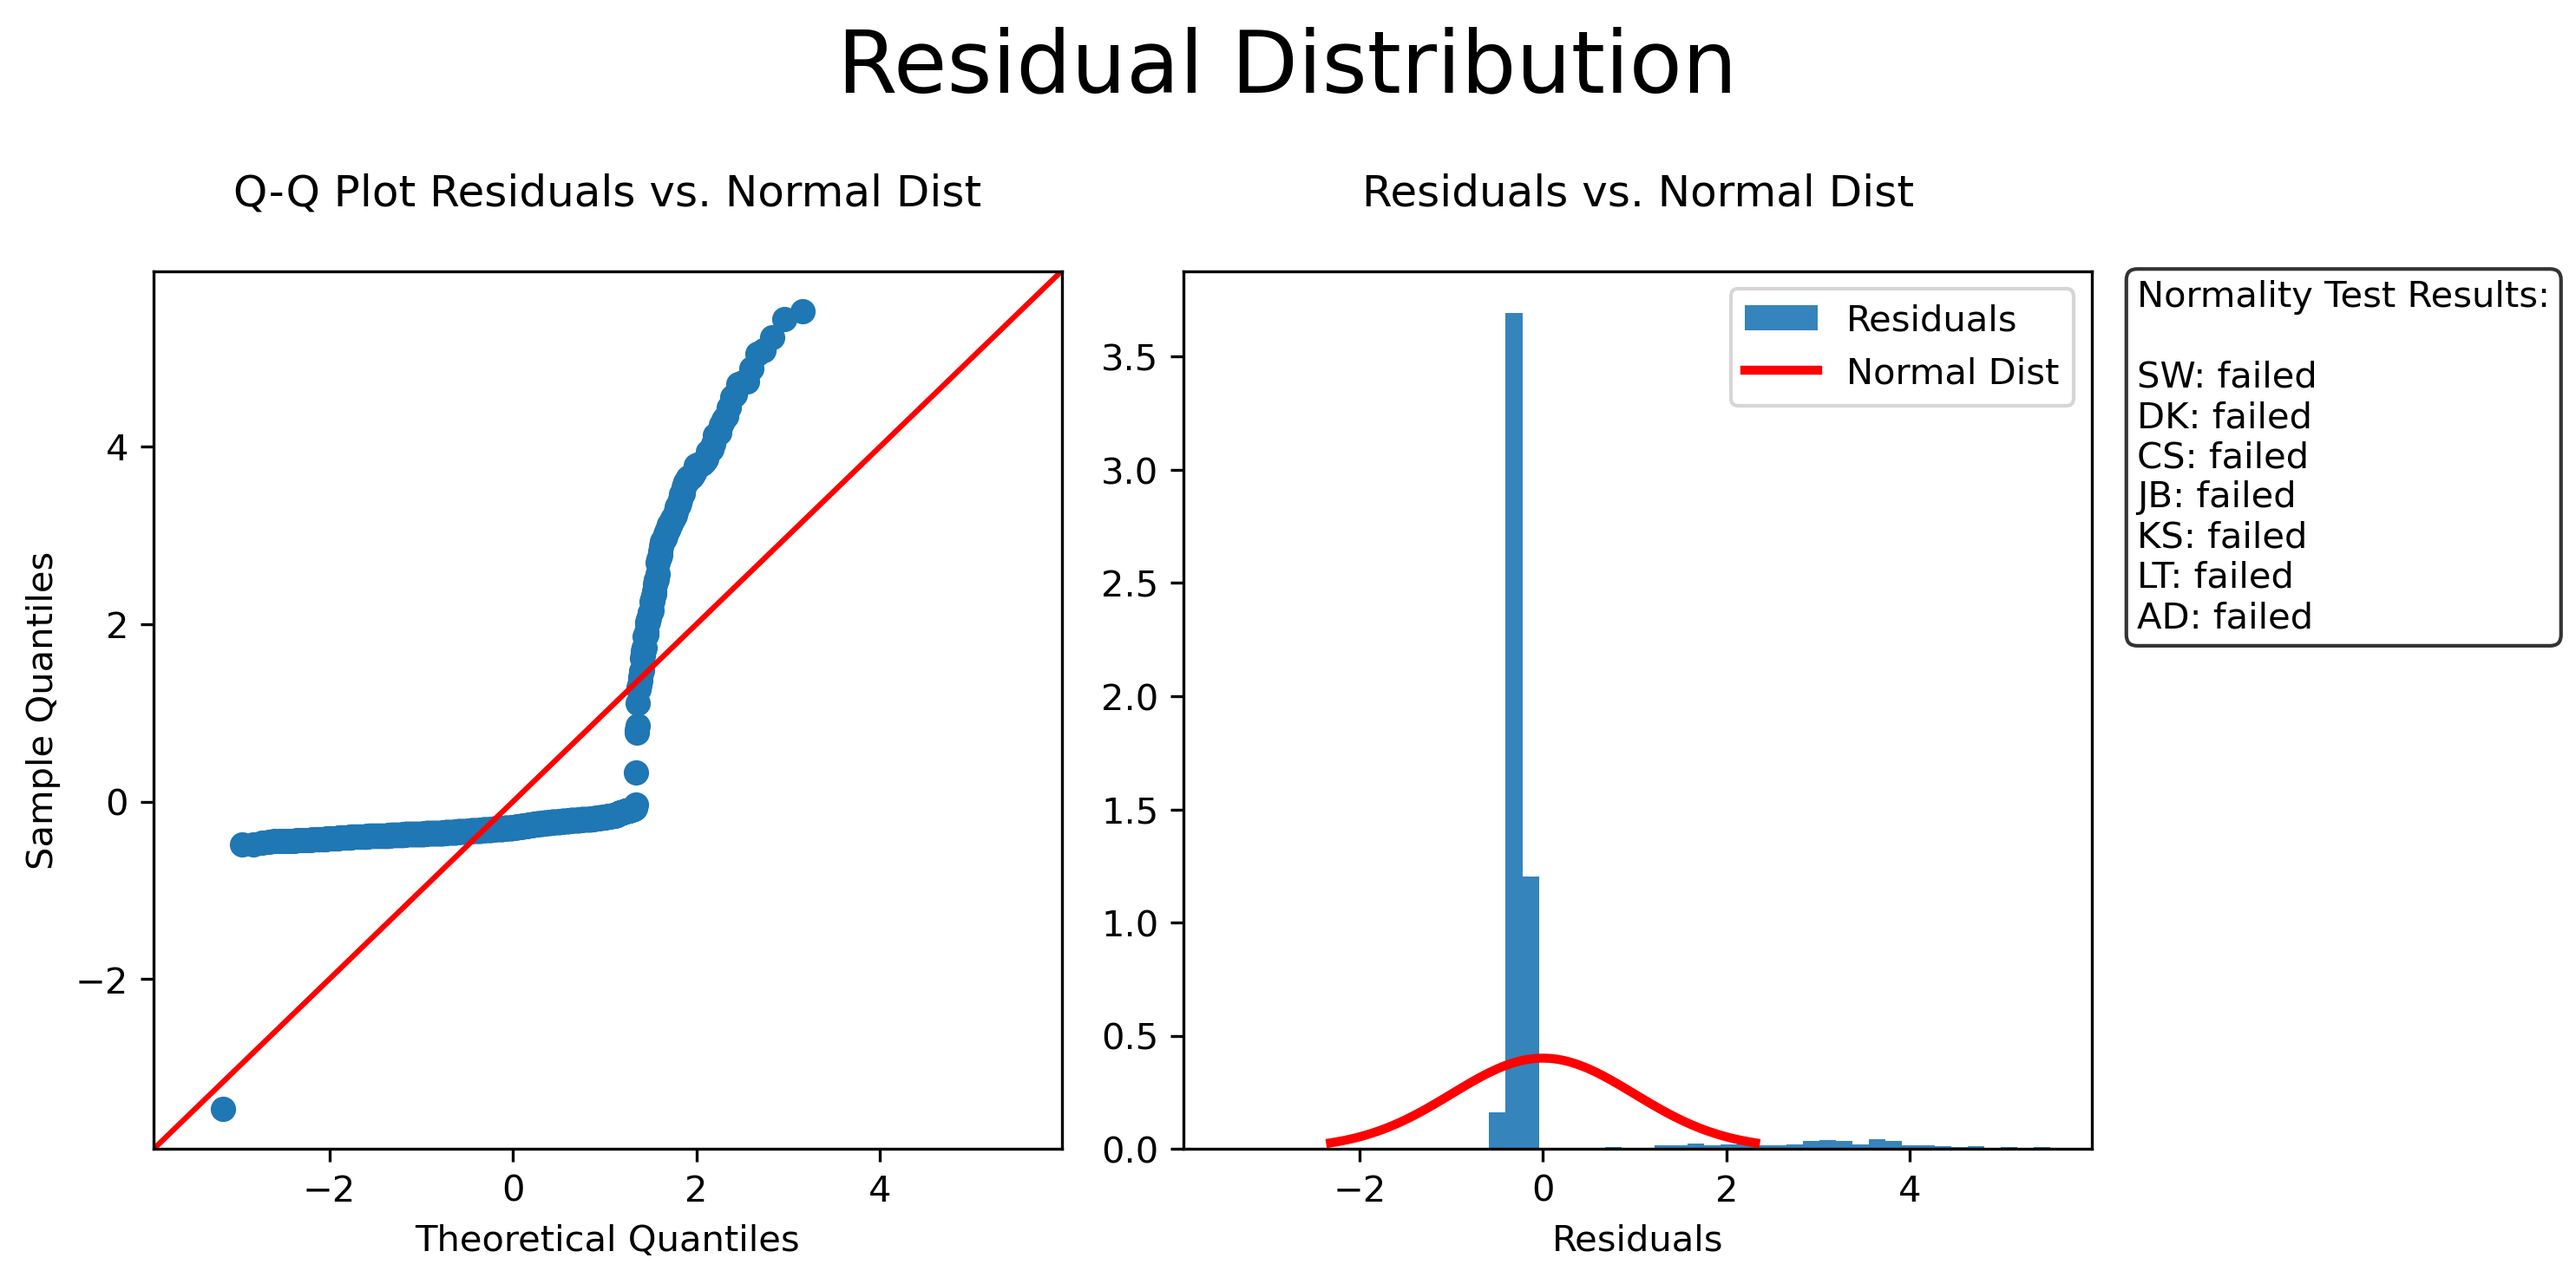
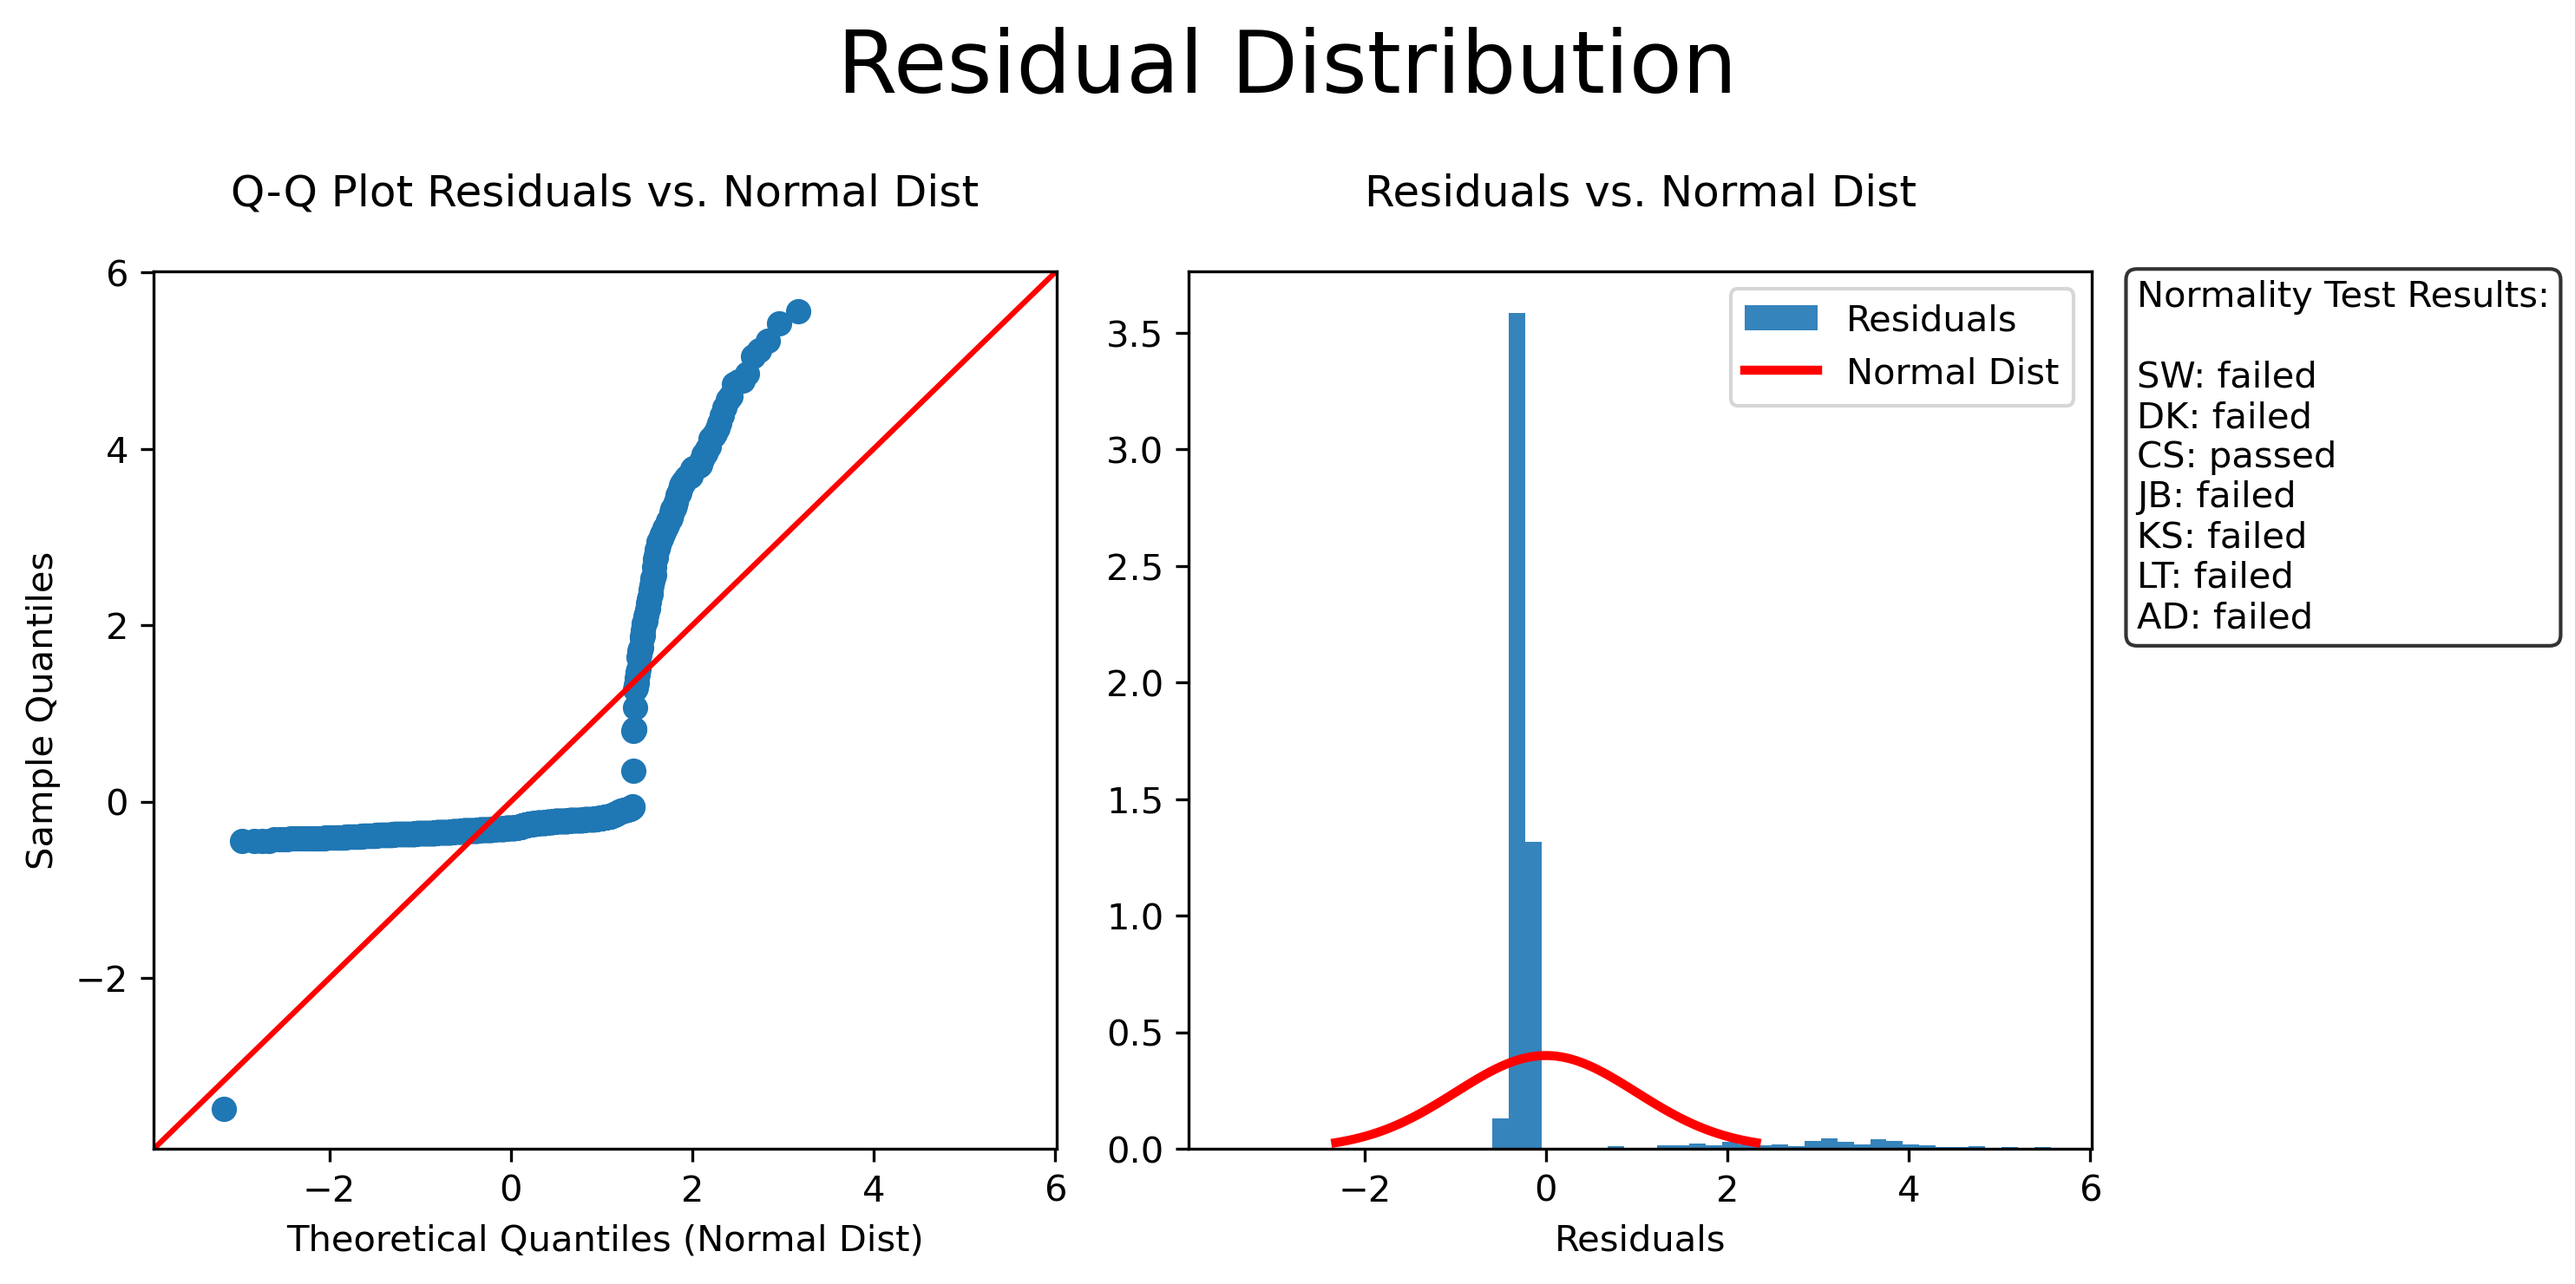
updated plots

diff --git a/cost_lin_reg.py b/cost_lin_reg.py
@@ -1036,104 +1036,104 @@ plt.show()
 # A few helper functions
 # =============================
 
-# Q-Q plot (default is normal dist)
-def my_qq(data, my_data_str='Residuals', dist_obj=stats.norm, fit_params=None, dist_str='Normal Dist', 
-          ax=None, y=1, save_img=False, img_filename=None): 
+# # Q-Q plot (default is normal dist)
+# def my_qq(data, my_data_str='Residuals', dist_obj=stats.norm, fit_params=None, dist_str='Normal Dist', 
+#           ax=None, y=1, save_img=False, img_filename=None): 
     
-    if not fit_params:
-        # Fit my data to dist_obj and get fit parameters
-        fit_params = dist_obj.fit(data)
+#     if not fit_params:
+#         # Fit my data to dist_obj and get fit parameters
+#         fit_params = dist_obj.fit(data)
     
-    # Specify scipy distribution shape, location, and scale based on the parameters calculated from fit()
-    loc = fit_params[-2]
-    scale = fit_params[-1]
-    shape_params = fit_params[:-2]
+#     # Specify scipy distribution shape, location, and scale based on the parameters calculated from fit()
+#     loc = fit_params[-2]
+#     scale = fit_params[-1]
+#     shape_params = fit_params[:-2]
     
-    # Q-Q Plot
-    qqplot(data, line='45', fit=False, dist=dist_obj, loc=loc, scale=scale, distargs=shape_params, ax=ax)
+#     # Q-Q Plot
+#     qqplot(data, line='45', fit=False, dist=dist_obj, loc=loc, scale=scale, distargs=shape_params, ax=ax)
     
-    if not ax:
-        ax = plt.gca()
+#     if not ax:
+#         ax = plt.gca()
 
-    ax.set_xlabel('Theoretical Quantiles')
-    ax.set_ylabel('Sample Quantiles')
-    ax.set_title(f'Q-Q Plot {my_data_str} vs. {dist_str}', y=y)
+#     ax.set_xlabel('Theoretical Quantiles')
+#     ax.set_ylabel('Sample Quantiles')
+#     ax.set_title(f'Q-Q Plot {my_data_str} vs. {dist_str}', y=y)
     
-    if save_img:
-        dh.save_image(img_filename, models_output_dir)
+#     if save_img:
+#         dh.save_image(img_filename, models_output_dir)
 
-    if not ax:
-        plt.show()
+#     if not ax:
+#         plt.show()
 
-# Plots a scipy distribution vs. histogram of my_data
-def hist_vs_dist_plot(my_data, my_data_str='Residuals', dist_obj=stats.norm, fit_params=None, dist_str='Normal Dist', 
-                      bins=200, ax=None, textbox_str=None, save_img=False, img_filename=None):    
+# # Plots a scipy distribution vs. histogram of my_data
+# def hist_vs_dist_plot(my_data, my_data_str='Residuals', dist_obj=stats.norm, fit_params=None, dist_str='Normal Dist', 
+#                       bins=200, ax=None, textbox_str=None, save_img=False, img_filename=None):    
     
-    if not fit_params:
-        # Fit my data to dist_obj and get fit parameters
-        fit_params = dist_obj.fit(my_data)
+#     if not fit_params:
+#         # Fit my data to dist_obj and get fit parameters
+#         fit_params = dist_obj.fit(my_data)
     
-    # Specify scipy distribution shape, location, and scale based on the parameters calculated from fit()
-    loc = fit_params[-2]
-    scale = fit_params[-1]
-    shape_params = fit_params[:-2]
+#     # Specify scipy distribution shape, location, and scale based on the parameters calculated from fit()
+#     loc = fit_params[-2]
+#     scale = fit_params[-1]
+#     shape_params = fit_params[:-2]
     
-    # Specify scipy distribution shape, location, and scale based on the parameters calculated from fit() above
-    rv = dist_obj(*shape_params, loc, scale)
+#     # Specify scipy distribution shape, location, and scale based on the parameters calculated from fit() above
+#     rv = dist_obj(*shape_params, loc, scale)
     
-    # Use the distribution to create x values for the plot
-    # ppf() is the inverse of cdf(). So if cdf(10) = 0.1, then ppf(0.1)=10
-    # ppf(0.1) is the x-value at which 10% of the values are less than or equal to it
-    x = np.linspace(rv.ppf(0.01), rv.ppf(0.99), 100)
+#     # Use the distribution to create x values for the plot
+#     # ppf() is the inverse of cdf(). So if cdf(10) = 0.1, then ppf(0.1)=10
+#     # ppf(0.1) is the x-value at which 10% of the values are less than or equal to it
+#     x = np.linspace(rv.ppf(0.01), rv.ppf(0.99), 100)
     
-    if not ax:
-        ax = plt.gca()
+#     if not ax:
+#         ax = plt.gca()
     
-    # Plot distribution on top of histogram of charges in order to compare
-    ax.hist(my_data, bins=bins, density=True, histtype='stepfilled', alpha=0.9, label=my_data_str)
-    ax.plot(x, rv.pdf(x), 'r-', lw=2.5, alpha=1, label=dist_str)
-    ax.set_title(f'{my_data_str} vs. {dist_str}', y=1.05)
-    ax.set_xlabel(f'{my_data_str}')
+#     # Plot distribution on top of histogram of charges in order to compare
+#     ax.hist(my_data, bins=bins, density=True, histtype='stepfilled', alpha=0.9, label=my_data_str)
+#     ax.plot(x, rv.pdf(x), 'r-', lw=2.5, alpha=1, label=dist_str)
+#     ax.set_title(f'{my_data_str} vs. {dist_str}', y=1.05)
+#     ax.set_xlabel(f'{my_data_str}')
     
-    if textbox_str:
-        # Add normality test interpretation text
-        box_style = {'facecolor':'white', 'boxstyle':'round', 'alpha':0.8}
-        ax.text(1.05, 0.99, textbox_str, bbox=box_style, transform=ax.transAxes, verticalalignment='top', horizontalalignment='left') 
+#     if textbox_str:
+#         # Add normality test interpretation text
+#         box_style = {'facecolor':'white', 'boxstyle':'round', 'alpha':0.8}
+#         ax.text(1.05, 0.99, textbox_str, bbox=box_style, transform=ax.transAxes, verticalalignment='top', horizontalalignment='left') 
     
     
-    ax.legend()
+#     ax.legend()
     
-    if save_img:
-        dh.save_image(img_filename, models_output_dir)
+#     if save_img:
+#         dh.save_image(img_filename, models_output_dir)
 
-# Plot both qq and hist vs. dist plots in same figure
-def plot_qq_hist_dist_combined(my_data, my_data_str='Residuals', dist_obj=stats.norm, dist_str='Normal Dist', 
-                               bins=50, textbox_str=None, fig_title=None, title_fontsize = 24, figsize=(10, 5), save_img=False, img_filename=None):
+# # Plot both qq and hist vs. dist plots in same figure
+# def plot_qq_hist_dist_combined(my_data, my_data_str='Residuals', dist_obj=stats.norm, dist_str='Normal Dist', 
+#                                bins=50, textbox_str=None, fig_title=None, title_fontsize = 24, figsize=(10, 5), save_img=False, img_filename=None):
     
-    # Create figure, gridspec, list of axes/subplots mapped to gridspec location
-    fig, gs, ax_array_flat = dh.initialize_fig_gs_ax(num_rows=1, num_cols=2, figsize=figsize)
+#     # Create figure, gridspec, list of axes/subplots mapped to gridspec location
+#     fig, gs, ax_array_flat = dh.initialize_fig_gs_ax(num_rows=1, num_cols=2, figsize=figsize)
 
-    # Fit my data to dist_obj and get fit parameters
-    fit_params = dist_obj.fit(my_data)
+#     # Fit my data to dist_obj and get fit parameters
+#     fit_params = dist_obj.fit(my_data)
     
-    # Plot Q-Q, add to figure
-    my_qq(my_data, my_data_str=my_data_str, dist_obj=dist_obj, fit_params=fit_params, 
-          ax=ax_array_flat[0], y=1.05) # Increase title space to match hist_vs_dist_plot()
+#     # Plot Q-Q, add to figure
+#     my_qq(my_data, my_data_str=my_data_str, dist_obj=dist_obj, fit_params=fit_params, 
+#           ax=ax_array_flat[0], y=1.05) # Increase title space to match hist_vs_dist_plot()
     
-    # Plot hist vs. dist, add to figure
-    hist_vs_dist_plot(my_data, my_data_str=my_data_str, dist_obj=dist_obj, fit_params=fit_params, 
-                      dist_str=dist_str, bins=bins, ax=ax_array_flat[1], textbox_str=textbox_str)
+#     # Plot hist vs. dist, add to figure
+#     hist_vs_dist_plot(my_data, my_data_str=my_data_str, dist_obj=dist_obj, fit_params=fit_params, 
+#                       dist_str=dist_str, bins=bins, ax=ax_array_flat[1], textbox_str=textbox_str)
     
-    # Figure title
-    if fig_title:
-        fig.suptitle(fig_title, fontsize=title_fontsize)
-    else:
-        fig.suptitle(f'{my_data_str} vs. {dist_str}', fontsize=title_fontsize)
-    fig.tight_layout(h_pad=2) # Increase spacing between plots to minimize text overlap
+#     # Figure title
+#     if fig_title:
+#         fig.suptitle(fig_title, fontsize=title_fontsize)
+#     else:
+#         fig.suptitle(f'{my_data_str} vs. {dist_str}', fontsize=title_fontsize)
+#     fig.tight_layout(h_pad=2) # Increase spacing between plots to minimize text overlap
     
-    if save_img:
-        dh.save_image(img_filename, models_output_dir)
-    plt.show()
+#     if save_img:
+#         dh.save_image(img_filename, models_output_dir)
+#     plt.show()
 
 
 
@@ -1141,7 +1141,7 @@ def plot_qq_hist_dist_combined(my_data, my_data_str='Residuals', dist_obj=stats.
 # Test for normality before removing Cook's outliers
 # ==========================================================
 
-resid4 = sm_lin_reg_4.resid_pearson
+resid4 = sm_lin_reg_4_2.resid_pearson
 #resid4 = sm_lin_reg_4.resid
 #resid4 = sm_lin_reg_4.get_influence().resid_studentized_internal
 
@@ -1152,22 +1152,22 @@ resid4 = sm_lin_reg_4.resid_pearson
 
 # Shapiro-Wilk test for normality
 # not useful for big samples(>5000), since it tends to reject normality too often. Not an issue here
-sw_stat4, sw_pval4 = stats.shapiro(sm_lin_reg_4.resid_pearson)
+sw_stat4, sw_pval4 = stats.shapiro(resid4)
 
 # D’Agostino’s K-squared test
-dk_stat4, dk_pval4 = stats.normaltest(sm_lin_reg_4.resid_pearson)
+dk_stat4, dk_pval4 = stats.normaltest(resid4)
 
 # Anderson-Darling Normality Test
-ad_stat4, ad_critvals4, ad_siglevels4 = stats.anderson(sm_lin_reg_4.resid_pearson, dist='norm')
+ad_stat4, ad_critvals4, ad_siglevels4 = stats.anderson(resid4, dist='norm')
 
 # Chi-Square Normality Test
-cs_stat4, cs_pval4 = stats.chisquare(sm_lin_reg_4.resid_pearson)
+cs_stat4, cs_pval4 = stats.chisquare(resid4)
 
 # Jarque–Bera test for Normality
-js_stat4, js_pval4 = stats.jarque_bera(sm_lin_reg_4.resid_pearson)
+js_stat4, js_pval4 = stats.jarque_bera(resid4)
 
 # Kolmogorov-Smirnov test for Normality
-ks_stat4, ks_pval4 = stats.kstest(sm_lin_reg_4.resid_pearson, 'norm')
+ks_stat4, ks_pval4 = stats.kstest(resid4, 'norm')
 # According to KS-table, for alpha of 0.05 and with n > 40, we want the test-statistic to be 
 # less than 1.36/sqrt(n). This will give us 95% confidence that our data comes from the 
 # given distribution
@@ -1176,7 +1176,7 @@ ks_stat_cutoff = 1.36 / np.sqrt(len(dataset['charges'])) # = (1.36 / sqrt(1338))
 
 # Lilliefors Test for Normality 
 # Same as Kolmogorov-Smirnov?
-lt_stat4, lt_pval4 = lilliefors(sm_lin_reg_4.resid_pearson, dist='norm')
+lt_stat4, lt_pval4 = lilliefors(resid4, dist='norm')
 
 # Function combining above normaly tests and interpreting results
 normal_results4, normal_interpret4, nml_interpret_txt4 = dh.normality_tests(resid4)
